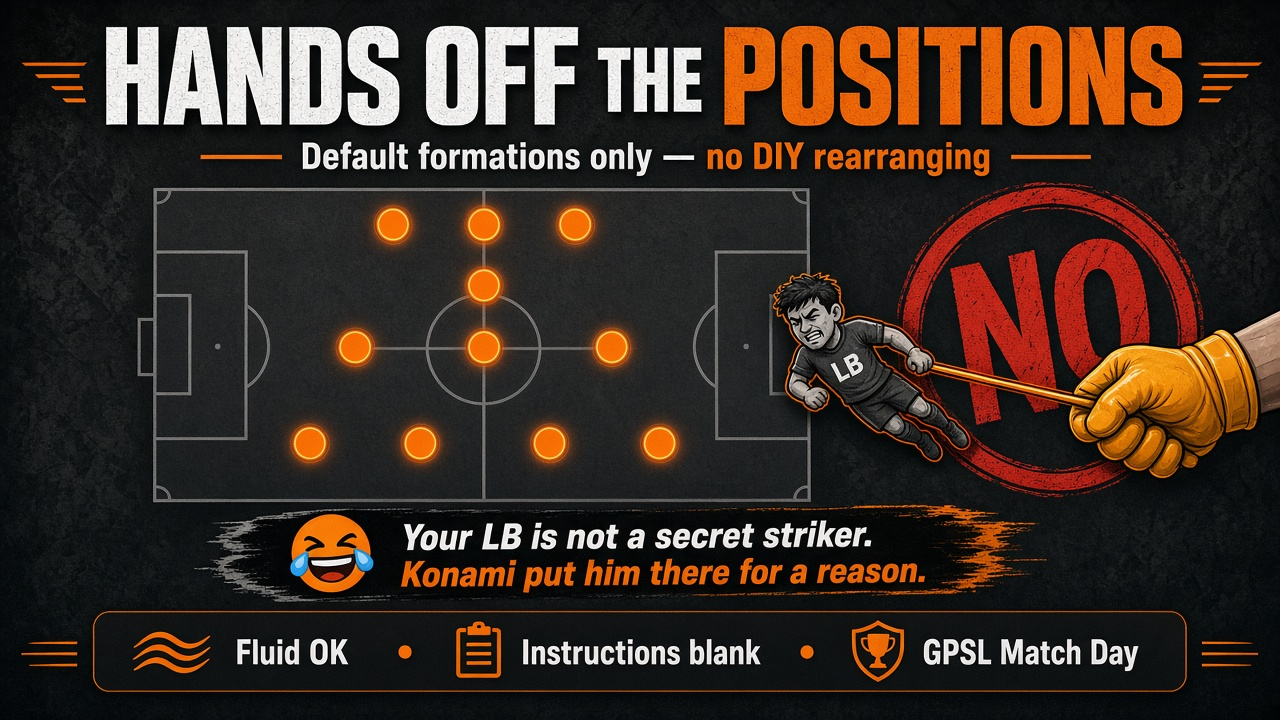
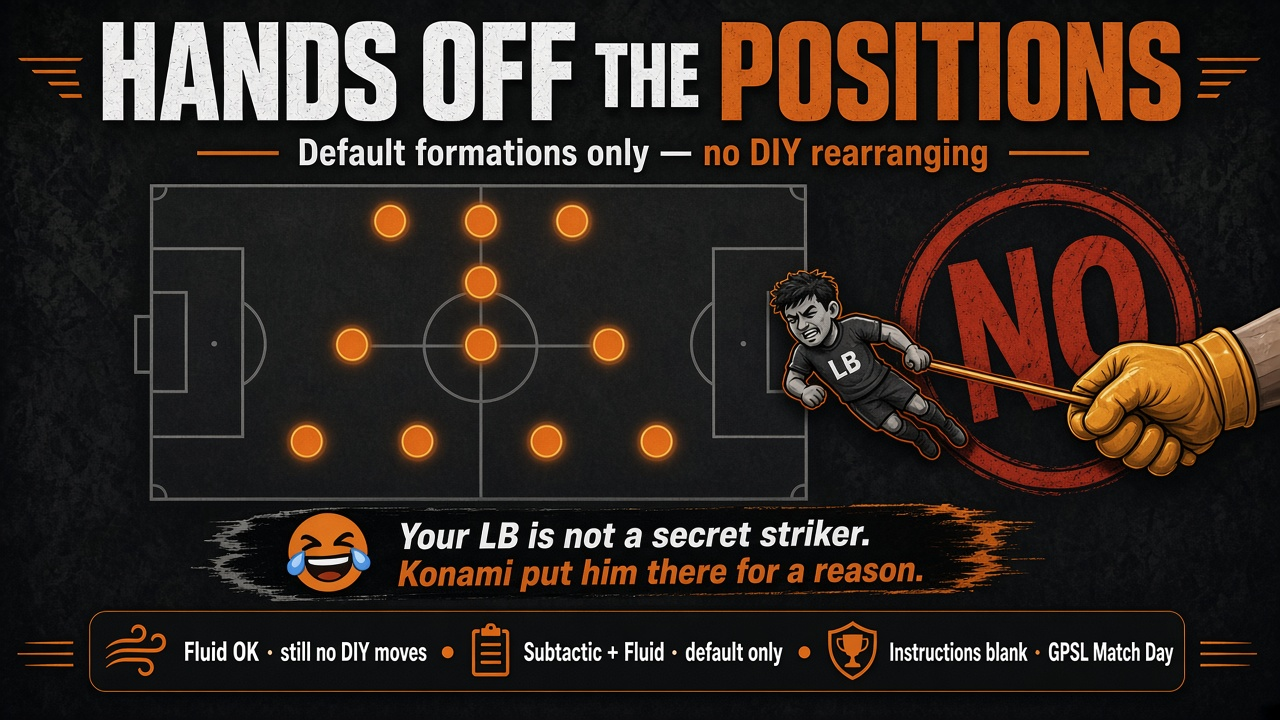
a

Changed region(s): [[0.0, 0.0306, 1.0, 0.8556], [0.0312, 0.8556, 0.9688, 0.9472]]

diff --git a/docs/announcement-fixed-positions-20261030.md b/docs/announcement-fixed-positions-20261030.md
@@ -1,7 +1,7 @@
 # Announcement — Fixed positions (default formations)
 
 **Image:** `docs/announcement-fixed-positions-20261030.jpg`  
-**Suggested Discord title:** Hands off the positions — default formations only
+**Suggested Discord title:** Hands off the positions — default formations only (Fluid too)
 
 ---
 
@@ -12,20 +12,23 @@ Quick reminder with love (and a tiny bit of side-eye):
 **Player positions are fixed by the default formation.**  
 Do **not** drag them around manually to invent your own DIY shape.
 
+That rule applies to **Subtactic and Fluid alike**.  
+Fluid On is fine — DIY rearranging in Fluid is not.
+
 Your LB is not a secret false nine.  
 Your DMF is not “basically a centre-forward if you squint.”  
 Konami already did the seating plan — leave the furniture where it is.
 
 ### What is allowed
-• **Default formations** only (Subtactic)  
-• **Fluid Formation** — On preferred, still on a **default** formation  
+• **Default formations** only (Subtactic **and** Fluid)  
+• **Fluid Formation** — On preferred, still on a **default** formation — **no manual moves**  
 • **Player instructions** — blank  
 • **GP manager** only  
 • Show Manager · Subtactic · Squad on the recording as usual  
 • GPSL Match Day squad: only the usual mirror role swaps (LB↔RB, LWF↔RWF, LMF↔RMF) where the site allows
 
 ### What is not allowed
-• Dragging players around in eFootball to invent a custom shape  
+• Dragging players around in eFootball to invent a custom shape — **including under Fluid**  
 • Parking a full-back at CF “for vibes”  
 • Individual player instructions  
 • “Just this once” experimental furniture rearranging
